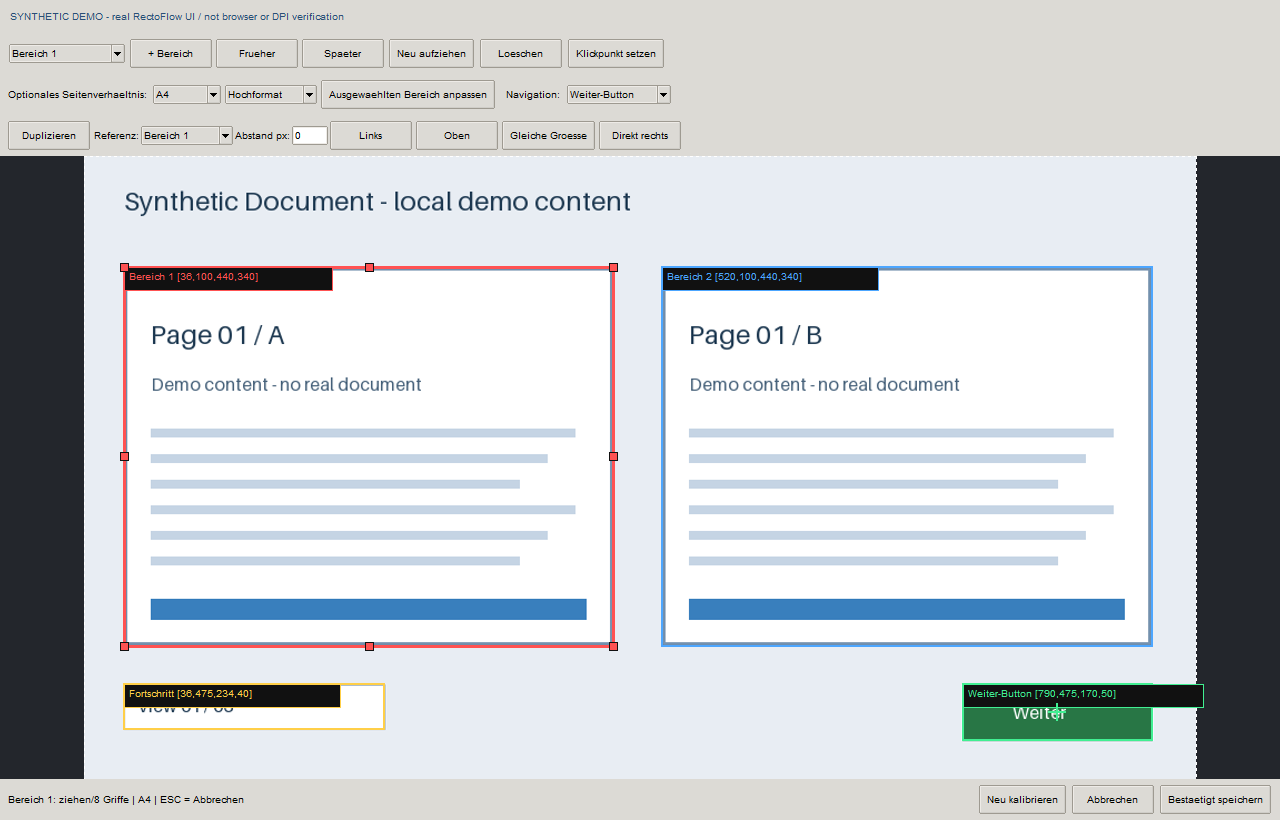
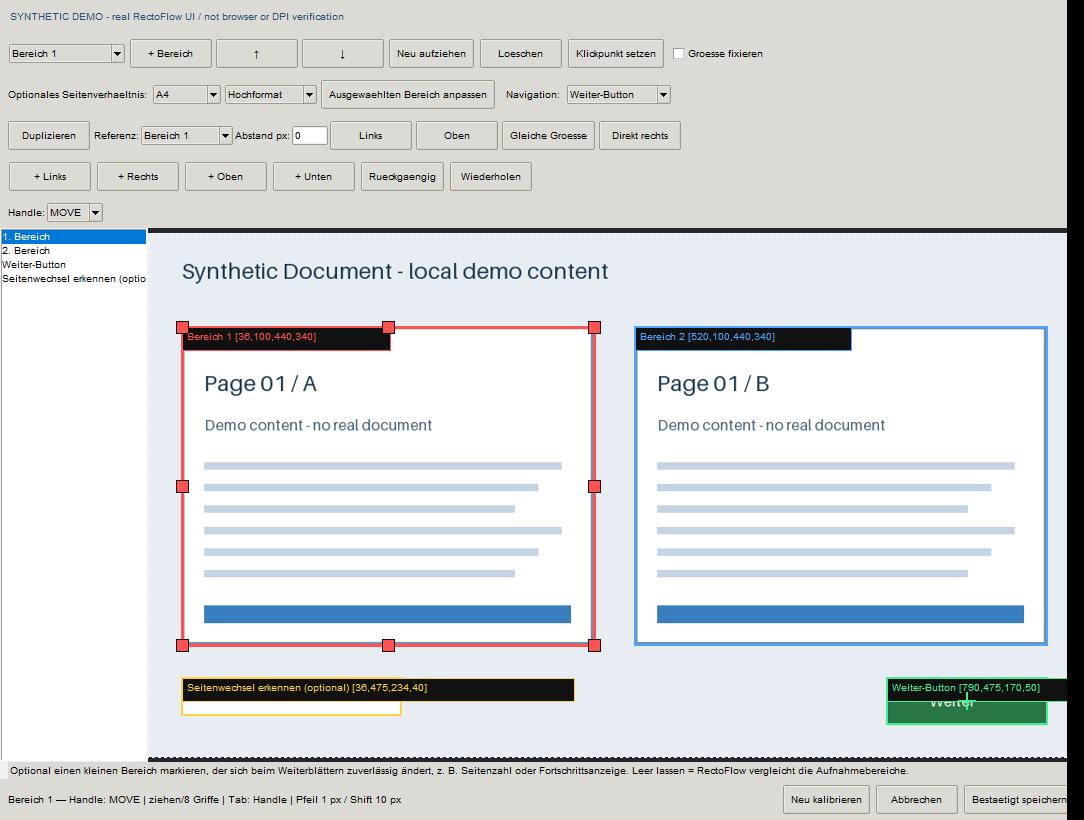
Refresh synthetic UI assets for optional view-change detection label

diff --git a/scripts/generate_readme_assets.py b/scripts/generate_readme_assets.py
@@ -132,7 +132,7 @@ def calibration_asset(output):
         picker.window.geometry('1280x820+0+0'); banner(picker.window)
         picker.window.update(); picker.render(); picker.window.update()
         assert len(picker.handles(REGIONS[0])) == 8
-        assert picker.selector['values'] == ('Bereich 1', 'Bereich 2', 'Weiter-Button', 'Fortschritt')
+        assert picker.selector['values'] == ('Bereich 1', 'Bereich 2', 'Weiter-Button', 'Seitenwechsel erkennen (optional)')
         render_client(picker.window, output / NAMES[0])
         picker.cancel()
     finally:
